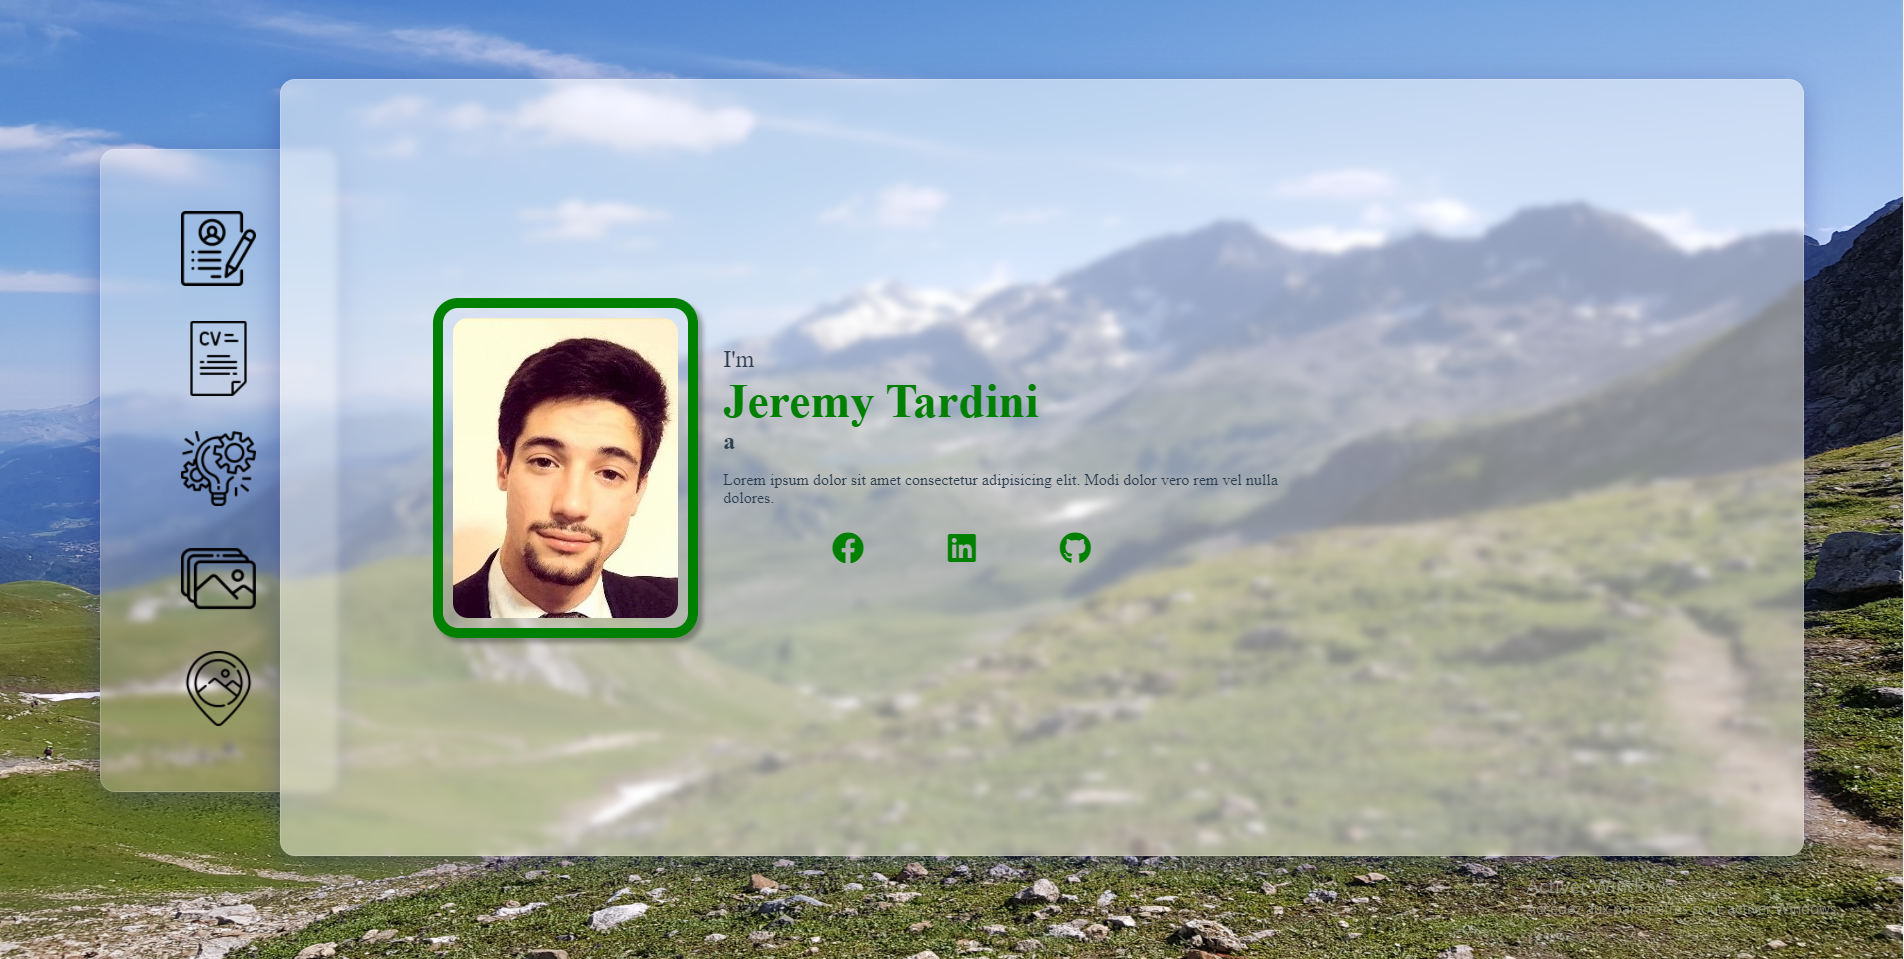
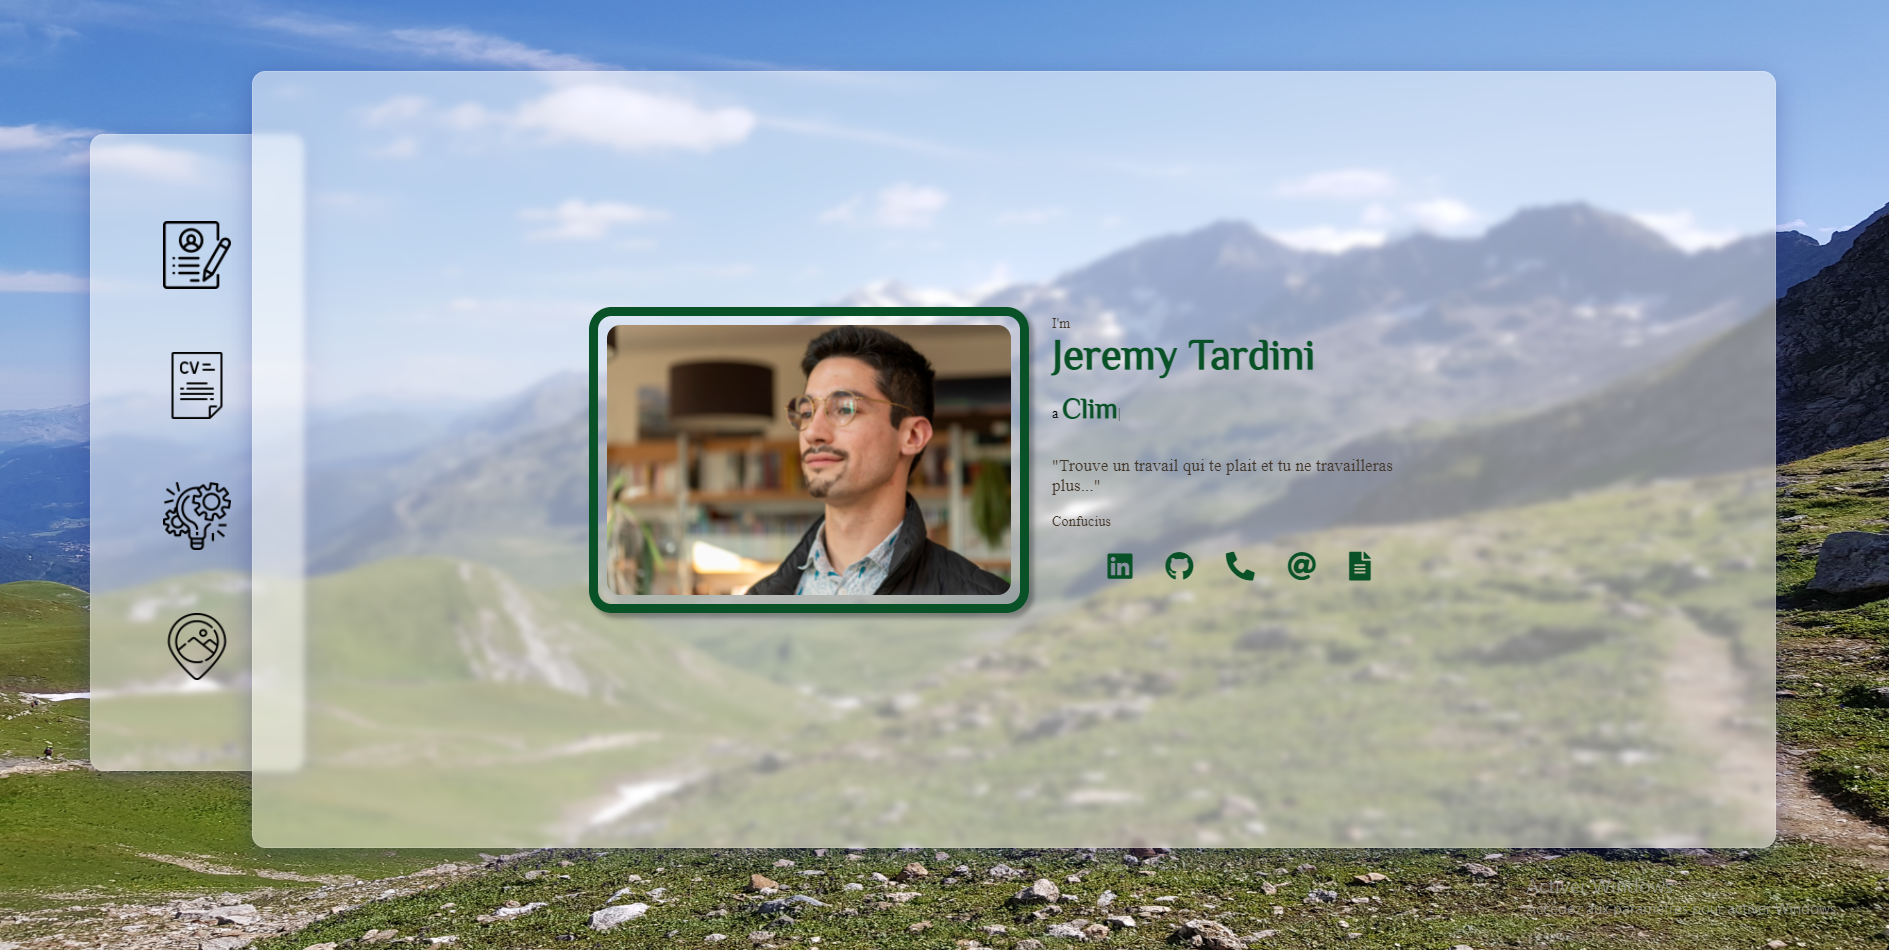
update Travel + CV

diff --git a/src/views/Secret.vue b/src/views/Secret.vue
@@ -1,27 +1,60 @@
 <template>
-    <div>
+    <div id="secretTravel">
+        <secretTravel></secretTravel>
         <div class="mapContain">
             <img src="../assets/TMB/map_montblanc.png" alt=" Circuit tour du mont blanc" id="map">
+            <i class="fas fa-map-pin houches"></i>
+            <i class="fas fa-map-pin posthouches"></i>
+            <i class="fas fa-map-pin contamines"></i>
+            <i class="fas fa-map-pin bonnati"></i>
+            <i class="fas fa-map-pin feret"></i>
+            <i class="fas fa-map-pin arpette"></i>
+            <i class="fas fa-map-pin posarpette"></i>
+            <i class="fas fa-map-pin postarpette2"></i>
         </div>
     </div>
 </template>
 
 <script>
+import secretTravel from "../components/secretTravel.vue"
 export default {
-    name:"Secret"
+    name:"Secret",
+    components: {
+        secretTravel,
+    },
+    mounted() {
 
+    }
 }
 </script>
 
-<style scoped>
+<style lang="scss" scoped>
+#secretTravel {
+    width: 100%;
+    height: 100%;
+}
 .mapContain {
     position: absolute;
     right: 25px;
     bottom: 25px;
-}
-#map {
+    #map {
     width: 300px;
     height: 300px;
-    transform: scale(1.5);
+    transform: rotateX(30deg);
+    }
+    #map:hover {
+        transform: scale(1.5);
+    }
+    .houches {
+        position: absolute;
+        left:111px;
+        top: 150px;
+        color: red
+    }
 }
+
+.box {
+    z-index: 15;
+}
+
 </style>

diff --git a/src/components/secretTravel.vue b/src/components/secretTravel.vue
@@ -1,0 +1,53 @@
+<template>
+    <div id="secretTravel"></div>
+</template>
+
+<script>
+import gsap from "gsap"
+
+export default {
+    name:"secretTravel",
+    mounted() {
+        gsap.set('#secretTravel', {perspective:500});
+
+        const n = 50; //number of divs
+
+        for (let i=0; i<n; i++){  
+            let b = document.createElement('div');  
+            b.classList.add('box');       
+            console.log(document.querySelector('#secretTravel'));
+            document.querySelector('#secretTravel').appendChild(b);
+            
+            gsap.set(b, {
+                color:'#fff',
+                z:2000,
+                width:"10%", //adjust as needed to avoid space between divs
+                height:'110%',
+                rotationY:i/n*(360),
+                transformOrigin:String("50% 50% -1000%"),
+                backgroundImage: 'url(https://assets.codepen.io/721952/pano.jpg)',
+                backgroundPosition:i*-318+'px -220px',
+                });  
+            }
+        window.onmousemove = (e)=>{
+        gsap.to('.box', {duration:0.6, rotationY:(i)=>180+i/n*360+360*(e.clientX/window.innerWidth) }); // TO DO: add vertical movement
+        }
+    },
+}
+</script>
+
+<style lang="scss" scoped>
+#secretTravel {
+    width: 100%;
+    height: 100%;
+    overflow:hidden; 
+}
+
+
+div, img {
+  position:absolute;
+  user-select: none;
+  overflow:hidden;  
+}
+
+</style>

diff --git a/src/components/travelCard.vue b/src/components/travelCard.vue
@@ -1,13 +1,13 @@
 <template>
     <div class="travelCard">
         <div class="description">
-            <p>{{ this.name }}</p>
+            <h2>{{ this.name }}</h2>
             <p>{{ this.description }}</p>
+
 
 
         </div>
         <div class="video">
-            <p>test video</p>
             <span v-html="this.youtube"></span>
         </div>
     </div>
@@ -32,6 +32,7 @@ export default {
 
 <style lang="scss" scoped>
 @import "../style/mixin.scss";
+@import "../style/Variable.scss";
 
 .travelCard {
     @include transparent__card;
@@ -44,4 +45,20 @@ export default {
     margin: 15px;
 }
 
+h2 {
+    font-family: 'philosopher';
+    color: $primarycolor;
+}
+h2::before {
+    content: "";
+    width: 75px;
+    height: 3px;
+    position: absolute;
+    top: 45px;
+    background-color: $primarycolor ;
+}
+
+p {
+    font-family: 'roboto';
+}
 </style>

diff --git a/src/App.vue b/src/App.vue
@@ -7,7 +7,7 @@
       <router-link to="/travel" title="my travel"><img src="./assets/icone/landscape.png" class="icones"></router-link>
     </div>
     <img src="./assets/background.jpg" alt="Background mountain" class="background">
-    <router-link to="/secret" title="Let's TMB" class="goToTmb"><i class="fas fa-mountain"></i></router-link>
+    <!-- <router-link to="/secret" title="Let's TMB" class="goToTmb"><i class="fas fa-mountain"></i></router-link> -->
     <router-view/>
   </div>
 </template>
